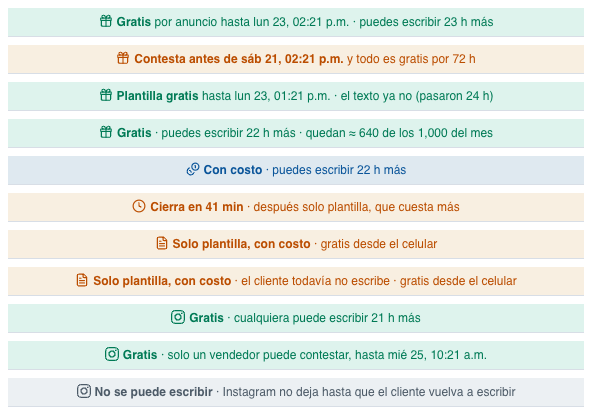
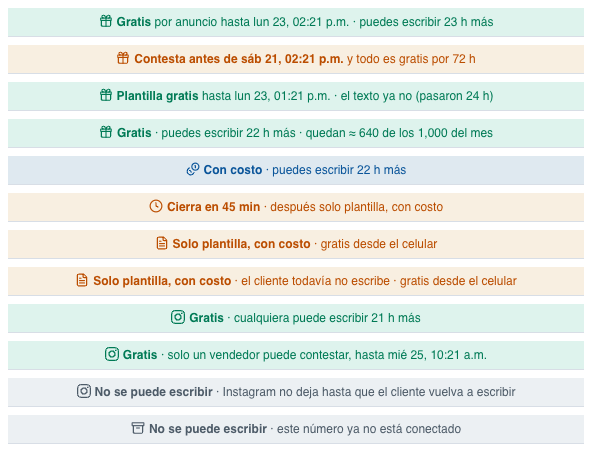
fix(bandeja): barra del chat — lo que encontró la revisión de Codex
- Marca de Meta: solo la de la entrada por anuncio actual (metaFreeMarkSince); si ya venció, ya no es gratis
  (antes volvía a la regla de 72 h y podía decir «Gratis» de más).
- Gratis del mes: el dato trae su vigencia (6 h desde la lectura de Meta o el fin del mes UTC); un chat abierto
  horas ya no sigue diciendo «Gratis».
- «Cierra en… · después solo plantilla, con costo» (antes «que cuesta más»: la de utilidad cuesta menos que un
  texto). Los title dicen que las plantillas sí se cobran.
- Número archivado: «No se puede escribir · este número ya no está conectado» (antes decía «puedes escribir»).
- Pruebas de los 4 casos; mapa (Bandeja › 11/12 y la imagen de todos los casos) y docs al día.

diff --git a/lib/inbox/window-bar.ts b/lib/inbox/window-bar.ts
@@ -14,7 +14,7 @@ import { META_RATE_USD } from "@/lib/meta-whatsapp/tarifas";
 import { humanAgentExpiresAt, isWindowOpen } from "@/lib/messaging/rules";
 
 export type WindowBarTone = "gratis" | "costo" | "aviso" | "cerrado";
-export type WindowBarIcon = "gift" | "coin" | "clock" | "template" | "instagram" | "test";
+export type WindowBarIcon = "gift" | "coin" | "clock" | "template" | "instagram" | "test" | "archive";
 
 export type WindowBar = {
   tone: WindowBarTone;
@@ -32,10 +32,12 @@ export type WindowBarInput = {
   windowExpiresAt: Date | null;
   /** Cliente de prueba de staging: nunca toca WhatsApp. */
   simulado: boolean;
-  /** Entrada por anuncio; metaFreeUntil = la marca de Meta vigente (puede pasar de 72 h). */
+  /** Número archivado (desconectado): desde ahí no se manda nada (ArchivedComposer). */
+  archivado: boolean;
+  /** Entrada por anuncio; metaFreeUntil = la marca de Meta de ESTA entrada, vigente o vencida (puede pasar de 72 h). */
   adEntry: { entryAt: Date; firstReplyAt: Date | null; metaFreeUntil: Date | null } | null;
-  /** Mensajes de servicio gratis que quedan este mes en el número (null = no se sabe). */
-  servicioGratisQuedan: number | null;
+  /** Mensajes normales gratis que quedan este mes en el número y hasta cuándo vale el dato (null = no se sabe). */
+  servicioGratis: { quedan: number; hasta: Date } | null;
   now: Date;
 };
 
@@ -77,10 +79,11 @@ export function tiempoQueQueda(ms: number): string {
   return m === 0 ? `${h} h` : `${h} h ${m} min`;
 }
 
-/** Hasta cuándo es gratis por el anuncio: primero la marca de Meta, si no la regla de 72 h del CRM. */
+/** Hasta cuándo es gratis por el anuncio: si Meta ya marcó esta entrada, manda su marca (vencida = ya no es gratis);
+ *  sin marca, la regla de 72 h del CRM. */
 function tiempoGratis(adEntry: WindowBarInput["adEntry"], now: Date) {
   if (!adEntry) return null;
-  if (adEntry.metaFreeUntil && adEntry.metaFreeUntil > now) return { status: "open" as const, until: adEntry.metaFreeUntil };
+  if (adEntry.metaFreeUntil) return adEntry.metaFreeUntil > now ? { status: "open" as const, until: adEntry.metaFreeUntil } : null;
   const fw = freeEntryWindow(adEntry.entryAt, adEntry.firstReplyAt, now);
   if (fw?.status === "open") return { status: "open" as const, until: fw.until };
   if (fw?.status === "pending") return { status: "pending" as const, replyBy: fw.replyBy };
@@ -96,6 +99,15 @@ export function windowBar(input: WindowBarInput): WindowBar {
       strong: "Cliente de prueba",
       rest: "· la ventana nunca cierra y no cuesta",
       title: "Cliente de prueba de staging: lo que se le manda nunca sale a WhatsApp.",
+    };
+  }
+  if (input.archivado) {
+    return {
+      tone: "cerrado",
+      icon: "archive",
+      strong: "No se puede escribir",
+      rest: "· este número ya no está conectado",
+      title: "El número de este chat ya no está conectado al CRM: el historial queda para consulta y no sale nada.",
     };
   }
   const abierta = isWindowOpen(windowExpiresAt, now);
@@ -164,25 +176,26 @@ export function windowBar(input: WindowBarInput): WindowBar {
   }
 
   if (abierta) {
-    const quedan = input.servicioGratisQuedan;
-    const gratisMes = quedan !== null && quedan >= GRATIS_MES_MARGEN;
+    // Los gratis del mes solo cuentan mientras el dato esté vigente (un chat abierto horas no los vuelve a leer).
+    const gratis = input.servicioGratis && now < input.servicioGratis.hasta ? input.servicioGratis.quedan : null;
+    const gratisMes = gratis !== null && gratis >= GRATIS_MES_MARGEN;
     if (queda < POCO_TIEMPO_MS) {
       return {
         tone: "aviso",
         icon: "clock",
         strong: `Cierra en ${tiempoQueQueda(queda)}`,
-        rest: "· después solo plantilla, que cuesta más",
+        rest: "· después solo plantilla, con costo",
         title: `Hasta esa hora se puede mandar texto libre (${gratisMes ? "hoy gratis: quedan de los 1,000 del mes" : `${TEXTO} cada mensaje`}). Después, desde el CRM solo sale plantilla: ${PLANTILLAS}.`,
       };
     }
     if (gratisMes) {
-      const aprox = Math.floor(quedan / 10) * 10;
+      const aprox = Math.floor(gratis / 10) * 10;
       return {
         tone: "gratis",
         icon: "gift",
         strong: "Gratis",
         rest: `· puedes escribir ${tiempoQueQueda(queda)} más · quedan ≈ ${aprox.toLocaleString("es-MX")} de los 1,000 del mes`,
-        title: `Meta no cobra los primeros 1,000 mensajes del mes (cuentan también los del Agente IA y las automatizaciones). Cuando se acaben, cada mensaje cuesta ${TEXTO}. La cuenta la reporta Meta y puede tardar unas horas.`,
+        title: `Meta no cobra los primeros 1,000 mensajes normales del mes (cuentan también los del Agente IA y las automatizaciones); las plantillas sí se cobran (${PLANTILLAS}). Cuando se acaben, cada mensaje cuesta ${TEXTO}. La cuenta la reporta Meta y puede tardar unas horas.`,
       };
     }
     return {
@@ -190,7 +203,7 @@ export function windowBar(input: WindowBarInput): WindowBar {
       icon: "coin",
       strong: "Con costo",
       rest: `· puedes escribir ${tiempoQueQueda(queda)} más`,
-      title: `Cada mensaje que sale del CRM (tuyo, del Agente IA o de una automatización) cuesta ${TEXTO}. ${CELULAR}`,
+      title: `Cada mensaje normal que sale del CRM (tuyo, del Agente IA o de una automatización) cuesta ${TEXTO}; una plantilla, ${PLANTILLAS}. ${CELULAR}`,
     };
   }
 

diff --git a/lib/inbox/window-bar.test.ts b/lib/inbox/window-bar.test.ts
@@ -9,8 +9,9 @@ const base = (over: Partial<WindowBarInput> = {}): WindowBarInput => ({
   channelType: "whatsapp",
   windowExpiresAt: at(21 * H),
   simulado: false,
+  archivado: false,
   adEntry: null,
-  servicioGratisQuedan: null,
+  servicioGratis: null,
   now,
   ...over,
 });
@@ -35,18 +36,26 @@ describe("windowBar · WhatsApp", () => {
   });
 
   it("ventana normal con gratis del mes: Gratis y cuántos quedan (redondeado a 10)", () => {
-    const bar = windowBar(base({ servicioGratisQuedan: 647 }));
+    const bar = windowBar(base({ servicioGratis: { quedan: 647, hasta: at(3 * H) } }));
     expect(bar).toMatchObject({ tone: "gratis", strong: "Gratis", rest: "· puedes escribir 21 h más · quedan ≈ 640 de los 1,000 del mes" });
   });
 
   it("con menos de 50 gratis del mes ya dice Con costo (Meta reporta con atraso)", () => {
-    expect(windowBar(base({ servicioGratisQuedan: 49 })).strong).toBe("Con costo");
-    expect(windowBar(base({ servicioGratisQuedan: 50 })).strong).toBe("Gratis");
+    expect(windowBar(base({ servicioGratis: { quedan: 49, hasta: at(3 * H) } })).strong).toBe("Con costo");
+    expect(windowBar(base({ servicioGratis: { quedan: 50, hasta: at(3 * H) } })).strong).toBe("Gratis");
+  });
+
+  it("los gratis del mes dejan de valer cuando vence el dato (chat abierto horas)", () => {
+    expect(windowBar(base({ servicioGratis: { quedan: 600, hasta: at(-1) } })).strong).toBe("Con costo");
+  });
+
+  it("el title de los gratis del mes avisa que las plantillas sí se cobran", () => {
+    expect(windowBar(base({ servicioGratis: { quedan: 600, hasta: at(H) } })).title).toContain("las plantillas sí se cobran");
   });
 
   it("poco tiempo (< 2 h): aviso ámbar con minutos", () => {
     const bar = windowBar(base({ windowExpiresAt: at(45 * 60_000) }));
-    expect(bar).toMatchObject({ tone: "aviso", icon: "clock", strong: "Cierra en 45 min", rest: "· después solo plantilla, que cuesta más" });
+    expect(bar).toMatchObject({ tone: "aviso", icon: "clock", strong: "Cierra en 45 min", rest: "· después solo plantilla, con costo" });
     expect(bar.title).toContain("≈ 75 centavos la de venta");
     expect(windowBar(base({ windowExpiresAt: at(2 * H) })).strong).toBe("Con costo");
   });
@@ -79,6 +88,16 @@ describe("windowBar · WhatsApp", () => {
     const metaFreeUntil = at(100 * H);
     const bar = windowBar(base({ adEntry: { entryAt: at(-90 * H), firstReplyAt: at(-89 * H), metaFreeUntil } }));
     expect(bar.rest).toContain(`por anuncio hasta ${fechaBarra(metaFreeUntil)}`);
+  });
+
+  it("anuncio: si la marca de Meta de esta entrada ya venció, ya no es gratis (no vuelve a las 72 h)", () => {
+    const bar = windowBar(base({ adEntry: { entryAt: at(-50 * H), firstReplyAt: at(-49 * H), metaFreeUntil: at(-1 * H) } }));
+    expect(bar.strong).toBe("Con costo");
+  });
+
+  it("número archivado: no se puede escribir, aunque la ventana siga abierta", () => {
+    expect(windowBar(base({ archivado: true }))).toMatchObject({ tone: "cerrado", icon: "archive", strong: "No se puede escribir" });
+    expect(windowBar(base({ archivado: true, windowExpiresAt: at(-3 * H) })).strong).toBe("No se puede escribir");
   });
 
   it("anuncio con la ventana cerrada: Plantilla gratis hasta…", () => {
@@ -136,7 +155,7 @@ describe("windowBar · Instagram", () => {
   });
 
   it("los gratis del mes y los anuncios no aplican a Instagram", () => {
-    expect(ig({ servicioGratisQuedan: 900, adEntry: { entryAt: at(-1 * H), firstReplyAt: null, metaFreeUntil: null } }).rest).toBe(
+    expect(ig({ servicioGratis: { quedan: 900, hasta: at(H) }, adEntry: { entryAt: at(-1 * H), firstReplyAt: null, metaFreeUntil: null } }).rest).toBe(
       "· cualquiera puede escribir 21 h más",
     );
   });

diff --git a/lib/followups/gratis.ts b/lib/followups/gratis.ts
@@ -2,14 +2,13 @@
 // la ventana de cobro de un saliente que Meta marcó «gratis por anuncio» (free_entry_point; puede durar más de 72 h).
 // Sin marca, la regla del CRM: 72 h desde la primera respuesta (≤ 24 h) a quien llegó por un anuncio
 // (lib/ads/free-window.ts). null = no hay tiempo gratis vigente.
-import { and, eq, gt, sql } from "drizzle-orm";
+import { and, eq, gt, gte, sql } from "drizzle-orm";
 import { db } from "@/lib/db";
 import { messages } from "@/lib/db/schema";
 import { firstReplyAfter } from "@/lib/ads/queries";
 import { freeEntryWindow } from "@/lib/ads/free-window";
 
-// La marca de Meta vigente: hasta cuándo es gratis el chat según Meta (free_entry_point), o null. También la usa la
-// barra del chat (lib/inbox/queries.ts › detail).
+// La marca de Meta vigente: hasta cuándo es gratis el chat según Meta (free_entry_point), o null.
 export async function metaFreeUntilOf(organizationId: string, conversationId: string, now: Date): Promise<Date | null> {
   const [marca] = await db
     .select({ until: sql<Date | null>`max(${messages.metaWindowExpiresAt})`.mapWith(messages.metaWindowExpiresAt) })
@@ -21,6 +20,25 @@ export async function metaFreeUntilOf(organizationId: string, conversationId: st
         eq(messages.direction, "out"),
         eq(messages.metaPricingType, "free_entry_point"),
         gt(messages.metaWindowExpiresAt, now),
+      ),
+    );
+  return marca?.until ?? null;
+}
+
+// Barra del chat (lib/inbox/window-bar.ts): la marca de Meta de ESTA entrada por anuncio, vigente o vencida. Una marca
+// vencida dice que lo gratis ya se acabó (Meta manda): la barra no vuelve a la regla de 72 h. Solo cuenta lo que salió
+// desde la entrada, para que la marca de un anuncio viejo no tape una entrada nueva.
+export async function metaFreeMarkSince(organizationId: string, conversationId: string, entryAt: Date): Promise<Date | null> {
+  const [marca] = await db
+    .select({ until: sql<Date | null>`max(${messages.metaWindowExpiresAt})`.mapWith(messages.metaWindowExpiresAt) })
+    .from(messages)
+    .where(
+      and(
+        eq(messages.organizationId, organizationId),
+        eq(messages.conversationId, conversationId),
+        eq(messages.direction, "out"),
+        eq(messages.metaPricingType, "free_entry_point"),
+        gte(messages.sentAt, entryAt),
       ),
     );
   return marca?.until ?? null;

diff --git a/lib/inbox/queries.ts b/lib/inbox/queries.ts
@@ -29,7 +29,7 @@ import {
 } from "./format";
 import { adCardFromRaw, adCardsForMessages, firstReplyAfter } from "@/lib/ads/queries";
 import { transcripcionMeta } from "@/lib/ai/transcription/rules";
-import { metaFreeUntilOf } from "@/lib/followups/gratis";
+import { metaFreeMarkSince } from "@/lib/followups/gratis";
 import { servicioGratisQuedan } from "@/lib/meta-whatsapp/gratis-mes";
 import { chatMatchesForConversations, conversationsWithChatMatch, type ChatMatch } from "./chat-search";
 import type {
@@ -323,7 +323,7 @@ async function detail(where: SQL): Promise<ConversationDetail | null> {
   const sigueCobro = channel.type === "whatsapp" && !channel.isTest && channel.archivedAt === null;
   const [firstReplyAt, metaFreeUntil, servicioGratis] = await Promise.all([
     conversation.adEntryAt ? firstReplyAfter(org, conversation.id, conversation.adEntryAt) : null,
-    conversation.adEntryAt ? metaFreeUntilOf(org, conversation.id, now) : null,
+    conversation.adEntryAt ? metaFreeMarkSince(org, conversation.id, conversation.adEntryAt) : null,
     sigueCobro ? servicioGratisQuedan(db, org, conversation.channelId, now) : null,
   ]);
   return {
@@ -333,7 +333,7 @@ async function detail(where: SQL): Promise<ConversationDetail | null> {
     isStarred: contact.destacado,
     unreadCount: conversation.unreadCount,
     adEntry: conversation.adEntryAt ? { entryAt: conversation.adEntryAt, firstReplyAt, metaFreeUntil } : null,
-    servicioGratisQuedan: servicioGratis,
+    servicioGratis,
     channel: { isTest: channel.isTest, archived: channel.archivedAt !== null, type: channel.type },
     simulado: esCuentaSimulada(channel.providerAccountId) && simuladorActivo(),
   };

diff --git a/lib/meta-whatsapp/gratis-mes.ts b/lib/meta-whatsapp/gratis-mes.ts
@@ -32,7 +32,17 @@ export function gratisQueQuedan(renglones: Renglon[], leidoAt: Date | null, now:
   return Math.max(0, SERVICIO_GRATIS_MES - usados);
 }
 
-export async function servicioGratisQuedan(database: Database, organizationId: string, channelId: string, now: Date): Promise<number | null> {
+/** Gratis que quedan y hasta cuándo vale el dato: 6 h después de la lectura de Meta o el fin del mes UTC, lo que pase
+ *  antes. La barra lo deja de creer después (un chat abierto horas no debe seguir diciendo «Gratis»). */
+export type ServicioGratis = { quedan: number; hasta: Date };
+
+// PURO: hasta cuándo vale una lectura de Meta hecha en `leidoAt`.
+export function vigenciaGratis(leidoAt: Date): Date {
+  const finMes = Date.UTC(leidoAt.getUTCFullYear(), leidoAt.getUTCMonth() + 1, 1);
+  return new Date(Math.min(leidoAt.getTime() + GRATIS_MES_LECTURA_MAX_MS, finMes));
+}
+
+export async function servicioGratisQuedan(database: Database, organizationId: string, channelId: string, now: Date): Promise<ServicioGratis | null> {
   const { desde, hasta } = mesUtc(now);
   const [renglones, [sync]] = await Promise.all([
     database
@@ -51,5 +61,7 @@ export async function servicioGratisQuedan(database: Database, organizationId: s
       .from(metaWhatsappPricingSync)
       .where(eq(metaWhatsappPricingSync.organizationId, organizationId)),
   ]);
-  return gratisQueQuedan(renglones, sync?.fetchedAt ?? null, now);
+  const leidoAt = sync?.fetchedAt ?? null;
+  const quedan = gratisQueQuedan(renglones, leidoAt, now);
+  return quedan === null || !leidoAt ? null : { quedan, hasta: vigenciaGratis(leidoAt) };
 }

diff --git a/lib/inbox/types.ts b/lib/inbox/types.ts
@@ -92,11 +92,12 @@ export type ConversationDetail = {
   /**
    * Entrada por anuncio (ventana GRATIS de 72 h de Meta: la abre la primera
    * respuesta del negocio dentro de 24 h). null = no llegó por anuncio.
-   * metaFreeUntil = la marca de Meta vigente (puede pasar de 72 h; lib/followups/gratis.ts).
+   * metaFreeUntil = la marca de Meta de esta entrada, vigente o vencida (puede pasar de 72 h; lib/followups/gratis.ts).
    */
   adEntry: { entryAt: Date; firstReplyAt: Date | null; metaFreeUntil: Date | null } | null;
-  /** Mensajes de servicio gratis que le quedan este mes al número (de 1,000); null = no se sabe (lib/meta-whatsapp/gratis-mes.ts). */
-  servicioGratisQuedan: number | null;
+  /** Mensajes normales gratis que le quedan este mes al número (de 1,000) y hasta cuándo vale el dato; null = no se sabe
+   *  (lib/meta-whatsapp/gratis-mes.ts). */
+  servicioGratis: { quedan: number; hasta: Date } | null;
   /** Canal de la conversación: de prueba (etiqueta), archivado (sin envíos) y su red. */
   channel: { isTest: boolean; archived: boolean; type: ChannelPlatform };
   /** Cliente de prueba de staging (lib/messaging/simulador.ts): el chat muestra «Escribir como el cliente». */

diff --git a/app/(app)/dashboard/_components/window-bar.tsx b/app/(app)/dashboard/_components/window-bar.tsx
@@ -3,7 +3,7 @@
 // Barra de arriba del chat (Bandeja y pop-up del Embudo; 20-nov-2026, propuesta A del dueño): el precio primero, en
 // una palabra. Solo pinta: la regla vive en lib/inbox/window-bar.ts. Verde gratis, azul (navy) con costo, ámbar aviso
 // o acción, gris no se puede. El por qué y los centavos, al pasar el mouse (title).
-import { Clock, Coins, FileText, FlaskConical, Gift } from "lucide-react";
+import { Archive, Clock, Coins, FileText, FlaskConical, Gift } from "lucide-react";
 import type { ComponentType } from "react";
 import type { WindowBar, WindowBarIcon, WindowBarTone } from "@/lib/inbox/window-bar";
 import { InstagramGlyph } from "../../contactos/_components/contact-avatar";
@@ -22,6 +22,7 @@ const ICON: Record<WindowBarIcon, ComponentType<{ className?: string }>> = {
   template: FileText,
   instagram: InstagramGlyph,
   test: FlaskConical,
+  archive: Archive,
 };
 
 export function WindowBarView({ bar }: { bar: WindowBar }) {

diff --git a/lib/meta-whatsapp/gratis-mes.test.ts b/lib/meta-whatsapp/gratis-mes.test.ts
@@ -1,5 +1,5 @@
 import { describe, expect, it } from "vitest";
-import { gratisQueQuedan, mesUtc } from "./gratis-mes";
+import { gratisQueQuedan, mesUtc, vigenciaGratis } from "./gratis-mes";
 
 const now = new Date("2026-11-05T15:00:00Z");
 const recien = new Date("2026-11-05T14:10:00Z");
@@ -37,5 +37,15 @@ describe("gratisQueQuedan", () => {
   it("sin lectura de Meta o con una de más de 6 h: no se sabe", () => {
     expect(gratisQueQuedan([], null, now)).toBeNull();
     expect(gratisQueQuedan([], new Date("2026-11-05T08:59:00Z"), now)).toBeNull();
+  });
+});
+
+describe("vigenciaGratis", () => {
+  it("6 h después de la lectura", () => {
+    expect(vigenciaGratis(new Date("2026-11-05T14:10:00Z"))).toEqual(new Date("2026-11-05T20:10:00Z"));
+  });
+
+  it("nunca pasa del fin del mes UTC (el 1 empiezan otros 1,000)", () => {
+    expect(vigenciaGratis(new Date("2026-11-30T21:00:00Z"))).toEqual(new Date("2026-12-01T00:00:00Z"));
   });
 });

diff --git a/app/(app)/dashboard/_components/chat-thread.tsx b/app/(app)/dashboard/_components/chat-thread.tsx
@@ -407,12 +407,13 @@ export function ChatThread({
     channelType: detail.channel.type,
     windowExpiresAt: detail.windowExpiresAt ? new Date(detail.windowExpiresAt) : null,
     simulado: detail.simulado === true,
+    archivado: detail.channel.archived,
     adEntry: detail.adEntry && {
       entryAt: new Date(detail.adEntry.entryAt),
       firstReplyAt: detail.adEntry.firstReplyAt ? new Date(detail.adEntry.firstReplyAt) : null,
       metaFreeUntil: detail.adEntry.metaFreeUntil ? new Date(detail.adEntry.metaFreeUntil) : null,
     },
-    servicioGratisQuedan: detail.servicioGratisQuedan ?? null,
+    servicioGratis: detail.servicioGratis ? { quedan: detail.servicioGratis.quedan, hasta: new Date(detail.servicioGratis.hasta) } : null,
     now: new Date(nowMs),
   });
   const sellerCanWrite = canSellerWrite(detail.channel.type, detail.windowExpiresAt, nowMs);

diff --git a/docs/mapa-crm/3.2-bandeja.md b/docs/mapa-crm/3.2-bandeja.md
@@ -29,7 +29,7 @@ Barra de arriba del chat (11) en cada caso (20-nov-2026): **el precio primero, e
 (verde gratis, azul con costo, ámbar aviso, gris no se puede). De arriba abajo: llegó por anuncio · anuncio sin
 contestar · anuncio pero ya pasaron 24 h · inicio de mes (quedan de los 1,000 gratis) · ventana normal · cierra en
 menos de 2 h · ventana cerrada · el cliente todavía no escribe · Instagram dentro de 24 h · Instagram de 24 h a 7 días ·
-Instagram después de 7 días.
+Instagram después de 7 días · número archivado.
 
 ![Barra de arriba del chat: todos los casos](02-bandeja-barra.png)
 
@@ -45,8 +45,8 @@ Instagram después de 7 días.
 | 8 | **Temperatura** | 🔥 🧊 ⏳ o ○. Clic para cambiarla sin abrir el chat. Aquí no hay ⭐: Destacado es la estrella (7). | Todos |
 | 9 | **Encabezado del chat** | Nombre, teléfono y ciudad (por la lada). En un chat de **Instagram**: nombre y **@usuario · Instagram** (sin teléfono ni ciudad). | Todos |
 | 10 | **Chip de etapa** | Etapa actual del contacto. | Todos |
-| 11 | **Barra de arriba del chat** | Dice de un vistazo si lo que sale **del CRM** (tú, el Agente IA o una automatización) es **gratis o cuesta**: empieza con la palabra en negritas y el **color es el precio** (verde gratis, azul con costo, ámbar aviso o algo que hacer, gris no se puede). Al **pasar el mouse** dice por qué y cuánto (≈ 20 centavos un mensaje; ≈ 75 centavos una plantilla de venta y ≈ 15 una de utilidad; Meta cobra en dólares y sin IVA). Casos de WhatsApp: **«Gratis por anuncio hasta…»** (12); **«Contesta antes de… y todo es gratis por 72 h»** (llegó por anuncio y nadie le ha contestado); **«Plantilla gratis hasta… · el texto ya no»** (sigue lo gratis del anuncio pero pasaron 24 h); **«Gratis · puedes escribir X h más · quedan ≈ N de los 1,000 del mes»** (al inicio de cada mes, mientras queden los mensajes gratis que da Meta; con menos de 50 ya dice «Con costo» porque Meta lo reporta con horas de atraso); **«Con costo · puedes escribir X h más»**; **«Cierra en X min · después solo plantilla, que cuesta más»** (quedan menos de 2 h); **«Solo plantilla, con costo · gratis desde el celular»** (pasaron 24 h; lo que se escribe desde el celular o WhatsApp Web no se cobra) y, si el cliente nunca ha escrito, «… · el cliente todavía no escribe · …». **Instagram** no cobra: «Gratis · cualquiera puede escribir X h más», «Gratis · solo un vendedor puede contestar, hasta…» (de 24 h a 7 días; el Agente IA y las automatizaciones ya no) y, después de 7 días, «No se puede escribir» (gris). Ver todos los casos en la captura de arriba. Hasta el 19-nov-2026 decía «Ventana abierta · quedan X h». | Todos |
-| 12 | **Gratis por anuncio** | Parte de la barra (11): «🎁 **Gratis** por anuncio hasta…» (y «· puedes escribir X h más» si las 24 h para escribir libre se acaban antes) o, si nadie le ha contestado, «**Contesta antes de…** y todo es gratis por 72 h». Hasta cuándo es gratis: lo que marca Meta en los mensajes (puede pasar de 72 h) o, sin esa marca, 72 h desde la primera respuesta. | Todos |
+| 11 | **Barra de arriba del chat** | Dice de un vistazo si lo que sale **del CRM** (tú, el Agente IA o una automatización) es **gratis o cuesta**: empieza con la palabra en negritas y el **color es el precio** (verde gratis, azul con costo, ámbar aviso o algo que hacer, gris no se puede). Al **pasar el mouse** dice por qué y cuánto (≈ 20 centavos un mensaje; ≈ 75 centavos una plantilla de venta y ≈ 15 una de utilidad; Meta cobra en dólares y sin IVA). Casos de WhatsApp: **«Gratis por anuncio hasta…»** (12); **«Contesta antes de… y todo es gratis por 72 h»** (llegó por anuncio y nadie le ha contestado); **«Plantilla gratis hasta… · el texto ya no»** (sigue lo gratis del anuncio pero pasaron 24 h); **«Gratis · puedes escribir X h más · quedan ≈ N de los 1,000 del mes»** (al inicio de cada mes, mientras queden los mensajes normales gratis que da Meta; las plantillas sí se cobran; con menos de 50, o si el dato tiene más de 6 h, ya dice «Con costo» porque Meta lo reporta con horas de atraso); **«Con costo · puedes escribir X h más»**; **«Cierra en X min · después solo plantilla, con costo»** (quedan menos de 2 h); **«Solo plantilla, con costo · gratis desde el celular»** (pasaron 24 h; lo que se escribe desde el celular o WhatsApp Web no se cobra) y, si el cliente nunca ha escrito, «… · el cliente todavía no escribe · …». **Instagram** no cobra: «Gratis · cualquiera puede escribir X h más», «Gratis · solo un vendedor puede contestar, hasta…» (de 24 h a 7 días; el Agente IA y las automatizaciones ya no) y, después de 7 días, «No se puede escribir» (gris). En un número **archivado** (desconectado): «No se puede escribir · este número ya no está conectado» (gris). Ver todos los casos en la captura de arriba. Hasta el 19-nov-2026 decía «Ventana abierta · quedan X h». | Todos |
+| 12 | **Gratis por anuncio** | Parte de la barra (11): «🎁 **Gratis** por anuncio hasta…» (y «· puedes escribir X h más» si las 24 h para escribir libre se acaban antes) o, si nadie le ha contestado, «**Contesta antes de…** y todo es gratis por 72 h». Hasta cuándo es gratis: lo que marca Meta en los mensajes de esa entrada (puede pasar de 72 h; si ya venció, ya no es gratis) o, sin esa marca, 72 h desde la primera respuesta. | Todos |
 | 13 | **Burbuja del cliente** | Mensaje del cliente (izquierda, blanca). Los **links** salen azules y subrayados; clic los abre en otra pestaña (Chat › 23). | Todos |
 | 14 | **Burbuja nuestra** | Mensaje del vendedor o del agente (derecha, azul; a propósito no dice quién). Los **links** salen en azul claro y subrayados; clic los abre en otra pestaña (Chat › 23). 🕗 enviando (también mientras espera su turno si WhatsApp pidió esperar) · ✓ enviado · ✓✓ entregado · ✓✓ azul leído. Si WhatsApp dice "entregado" o "leído", el mensaje **nunca** queda como "No se envió". | Todos |
 | 15 | **Nota de voz** | Reproductor del audio. | Todos |

diff --git a/docs/bandeja.md b/docs/bandeja.md
@@ -57,8 +57,10 @@ El chat es un solo componente reutilizado en las dos secciones.
   (con sus pruebas), pintada por `window-bar.tsx`. Casos: gratis por anuncio (la marca de Meta o 72 h), anuncio sin
   contestar, anuncio con las 24 h vencidas (plantilla gratis), gratis del mes (quedan de los 1,000 de servicio, de lo
   que reporta Meta cada hora: `lib/meta-whatsapp/gratis-mes.ts`; con menos de 50 o sin lectura de las últimas 6 h,
-  «Con costo»), con costo, cierra en menos de 2 h, cerrada (gratis desde el celular), el cliente todavía no escribe,
-  e Instagram (gratis; 24 h, de 24 h a 7 días solo un vendedor, después nadie). Vencida → composer bloqueado y solo
+  «Con costo»; el dato trae su vigencia —6 h o fin del mes UTC— para que un chat abierto horas no siga diciendo
+  «Gratis»), con costo, cierra en menos de 2 h, cerrada (gratis desde el celular), el cliente todavía no escribe,
+  número archivado (no se puede escribir) e Instagram (gratis; 24 h, de 24 h a 7 días solo un vendedor, después
+  nadie). La marca de Meta es la de la entrada actual (`metaFreeMarkSince`): si ya venció, no vuelve a las 72 h. Vencida → composer bloqueado y solo
   plantilla (plantillas: con el número real). Mapa: Bandeja › 11 y 12.
 - **Burbujas:** cliente a la izquierda, nuestras a la derecha, separador por día.
 - **Estado del saliente:** 🕗 enviando · ✓ enviado · ✓✓ entregado · ✓✓ azul leído · ⚠ falló (motivo

diff --git a/docs/meta-whatsapp.md b/docs/meta-whatsapp.md
@@ -4,7 +4,7 @@ Pedido del dueño (4-nov-2026): saber el gasto **exacto** de WhatsApp sin revisa
 mensajes cuestan** (Ángela, automatizaciones, seguimientos, vendedores). Todo en segundo plano: el gasto se ve solo
 en el Dashboard (tarjeta «WhatsApp (Meta)» y su sección «Gasto de WhatsApp»). Desde el 20-nov-2026 la barra de arriba
 del chat usa dos datos de aquí para decir si un mensaje es gratis o cuesta: los gratis de servicio que quedan en el mes
-(`lib/meta-whatsapp/gratis-mes.ts`) y la marca de Meta «gratis por anuncio» (`metaFreeUntilOf` en
+(`lib/meta-whatsapp/gratis-mes.ts`) y la marca de Meta «gratis por anuncio» de la entrada actual (`metaFreeMarkSince` en
 lib/followups/gratis.ts). Ver docs/bandeja.md › Chat.
 No gasta IA (no llama a ningún modelo) ni cuesta en Zernio (Zernio cobra mensajes enviados y cuentas; leer es gratis).
 
